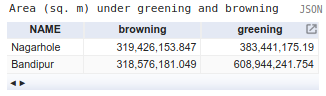
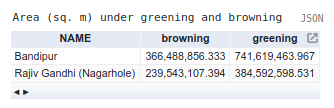
Switch to WDPA for park boundaries

diff --git a/tutorials/forest-vegetation-condition/index.md b/tutorials/forest-vegetation-condition/index.md
@@ -35,15 +35,15 @@ Bandipur and Nagarhole national parks are located in the Mysore-Malenad landscap
 
 ### Import images, features
 
-Import the MODIS 250m/pixel 16-day composite vegetation indices dataset, and select the EVI band. Load boundaries of Bandipur and Nagarhole national parks.
+Import the MODIS 250m/pixel 16-day composite vegetation indices dataset, and select the EVI band. Load boundaries of Bandipur and Nagarhole national parks from the [World Database on Protected Areas (WDPA)](https://developers.google.com/earth-engine/datasets/catalog/WCMC_WDPA_current_polygons?hl=en) dataset.
 
 ```js
 // get MODIS 250m EVI data 
 var mod13 = ee.ImageCollection('MODIS/006/MOD13Q1')
   .select('EVI');
 // get features of the forest national parks
-var nps = ee.FeatureCollection('users/pradeepkoulgi/IndiaTRCondition/MainlandPAs')
-  .filter(ee.Filter.inList('NAME', ['Bandipur', 'Nagarhole']));
+var nps = ee.FeatureCollection('WCMC/WDPA/current/polygons')
+  .filter(ee.Filter.inList('NAME', ['Bandipur', 'Rajiv Gandhi (Nagarhole)']));
 ```
 ### Compute annual summertime composites 
 
